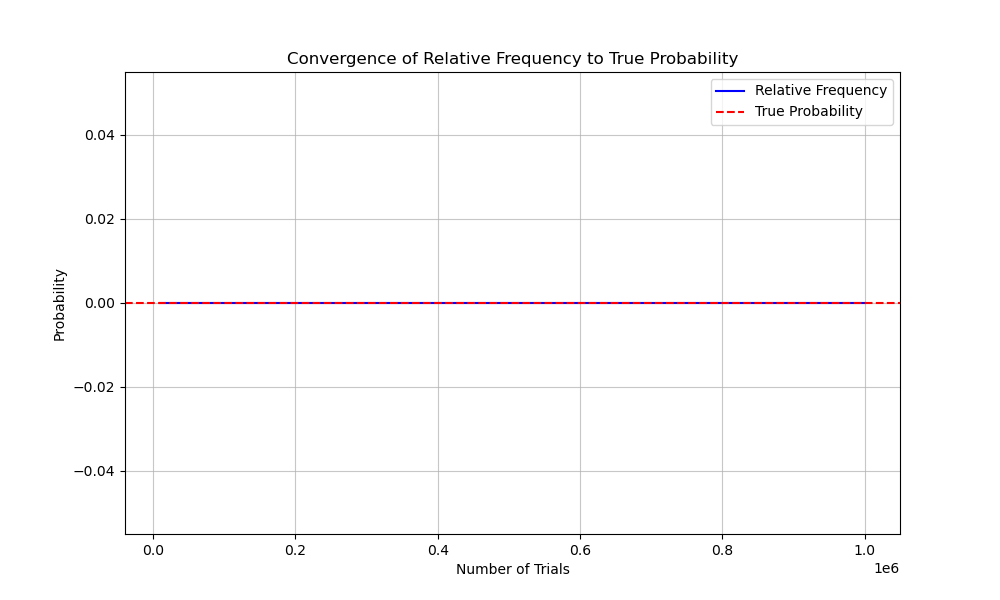
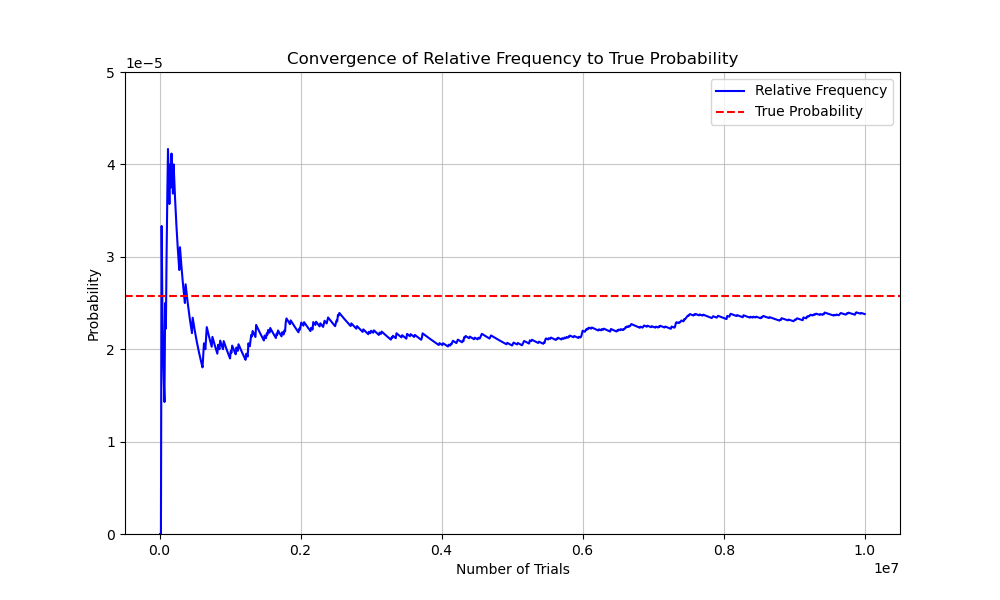
add files

diff --git a/assignments/Problem 8/codes/lottery.c b/assignments/Problem 8/codes/lottery.c
@@ -5,25 +5,58 @@
 #define TOTAL_NUMBERS 20 // Total numbers in the lottery
 #define CHOICES 6        // Numbers chosen by the player
 
+// Function to generate a unique set of numbers
+void generate_unique_numbers(int* numbers, int num_choices) {
+    int i, j;
+    for (i = 0; i < num_choices; i++) {
+        numbers[i] = 1 + (int)(rand() % TOTAL_NUMBERS);
+        // Ensure the generated number is unique
+        for (j = 0; j < i; j++) {
+            if (numbers[i] == numbers[j]) {
+                i--; // Regenerate this number
+                break;
+            }
+        }
+    }
+}
+
 // Function to simulate the lottery and track relative frequency
 void simulate_lottery(int simulations, int interval, double* results) {
     int win_count = 0;
 
     // Seed the random number generator
-    srand(time(0));
+    srand(time(NULL));
 
     for (int i = 0; i < simulations; i++) {
         int fixed_numbers[CHOICES], chosen_numbers[CHOICES];
         int is_match = 1;
 
         // Generate fixed lottery numbers
-        for (int j = 0; j < CHOICES; j++) {
-            fixed_numbers[j] = (rand() % TOTAL_NUMBERS) + 1;
+        generate_unique_numbers(fixed_numbers, CHOICES);
+
+        // Sort the fixed numbers
+        for (int j = 0; j < CHOICES - 1; j++) {
+            for (int k = j + 1; k < CHOICES; k++) {
+                if (fixed_numbers[j] > fixed_numbers[k]) {
+                    int temp = fixed_numbers[j];
+                    fixed_numbers[j] = fixed_numbers[k];
+                    fixed_numbers[k] = temp;
+                }
+            }
         }
 
         // Generate player's chosen numbers
-        for (int j = 0; j < CHOICES; j++) {
-            chosen_numbers[j] = (rand() % TOTAL_NUMBERS) + 1;
+        generate_unique_numbers(chosen_numbers, CHOICES);
+
+        // Sort the chosen numbers
+        for (int j = 0; j < CHOICES - 1; j++) {
+            for (int k = j + 1; k < CHOICES; k++) {
+                if (chosen_numbers[j] > chosen_numbers[k]) {
+                    int temp = chosen_numbers[j];
+                    chosen_numbers[j] = chosen_numbers[k];
+                    chosen_numbers[k] = temp;
+                }
+            }
         }
 
         // Check for match
@@ -44,3 +77,21 @@ void simulate_lottery(int simulations, int interval, double* results) {
         }
     }
 }
+
+int main() {
+    int simulations = 100000; // Example number of simulations
+    int interval = 1000;      // Interval for frequency tracking
+    int result_size = simulations / interval;
+    double* results = (double*)malloc(result_size * sizeof(double));
+
+    simulate_lottery(simulations, interval, results);
+
+    // Output the results
+    for (int i = 0; i < result_size; i++) {
+        printf("Interval %d: Relative Frequency = %.6f\n", i + 1, results[i]);
+    }
+
+    free(results);
+    return 0;
+}
+

diff --git a/assignments/Problem 8/codes/lottery.py b/assignments/Problem 8/codes/lottery.py
@@ -9,8 +9,8 @@ lottery = ctypes.CDLL('./lottery.so')
 lottery.simulate_lottery.argtypes = [ctypes.c_int, ctypes.c_int, ctypes.POINTER(ctypes.c_double)]
 
 # Parameters
-simulations = 1000000  # Total number of simulations
-interval = 10000       # Interval for tracking relative frequency
+simulations = 10000000  # Total number of simulations
+interval = 10000        # Interval for tracking relative frequency
 num_intervals = simulations // interval
 
 # Allocate space for results
@@ -21,7 +21,7 @@ lottery.simulate_lottery(simulations, interval, relative_frequencies)
 
 # Convert results to NumPy array
 relative_frequencies = np.array(relative_frequencies)
-
+print(relative_frequencies)
 # Compute the true probability
 total_combinations = np.math.comb(20, 6)
 true_probability = 1 / total_combinations
@@ -55,11 +55,22 @@ plt.grid(axis='y', linestyle='--', alpha=0.7)
 plt.savefig('../figs/cdf.png')
 plt.show()
 
-# Plot convergence of relative frequency
+# Plot convergence of relative frequency with zoomed-in y-axis in terms of 1e-5
 plt.figure(figsize=(10, 6))
 x_values = range(interval, simulations + 1, interval)
 plt.plot(x_values, relative_frequencies, label='Relative Frequency', color='blue')
 plt.axhline(true_probability, color='red', linestyle='--', label='True Probability')
+
+# Zoom in on the y-axis with terms of 1e-5
+# Scale the y-axis values to be in the range of 1e-5
+y_min = np.floor(min(min(relative_frequencies), true_probability) * 1e5) / 1e5
+y_max = np.ceil(max(max(relative_frequencies), true_probability) * 1e5) / 1e5
+
+plt.ylim(y_min, y_max)
+
+# Set ticks for y-axis to be in terms of 1e-5 intervals
+plt.yticks(np.arange(y_min, y_max + 0.00001, 0.00001))
+
 plt.xlabel('Number of Trials')
 plt.ylabel('Probability')
 plt.title('Convergence of Relative Frequency to True Probability')
@@ -67,3 +78,4 @@ plt.legend()
 plt.grid(alpha=0.7)
 plt.savefig('../figs/fig.png')
 plt.show()
+
